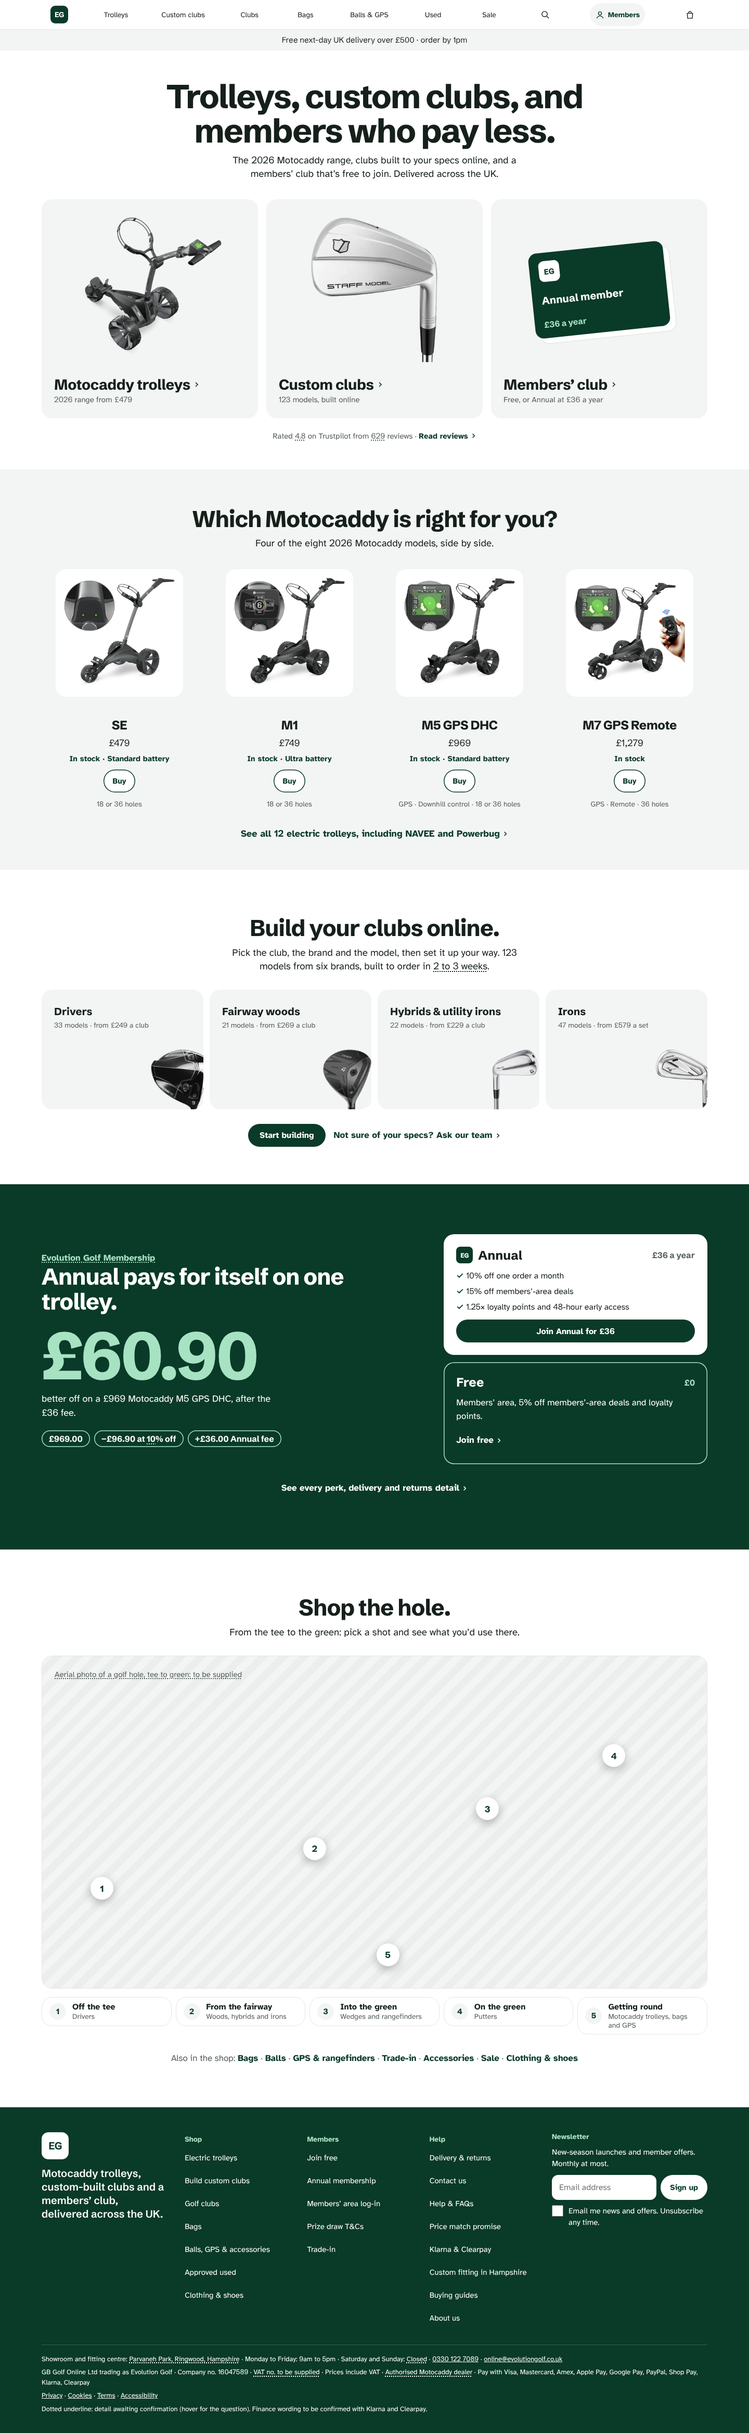
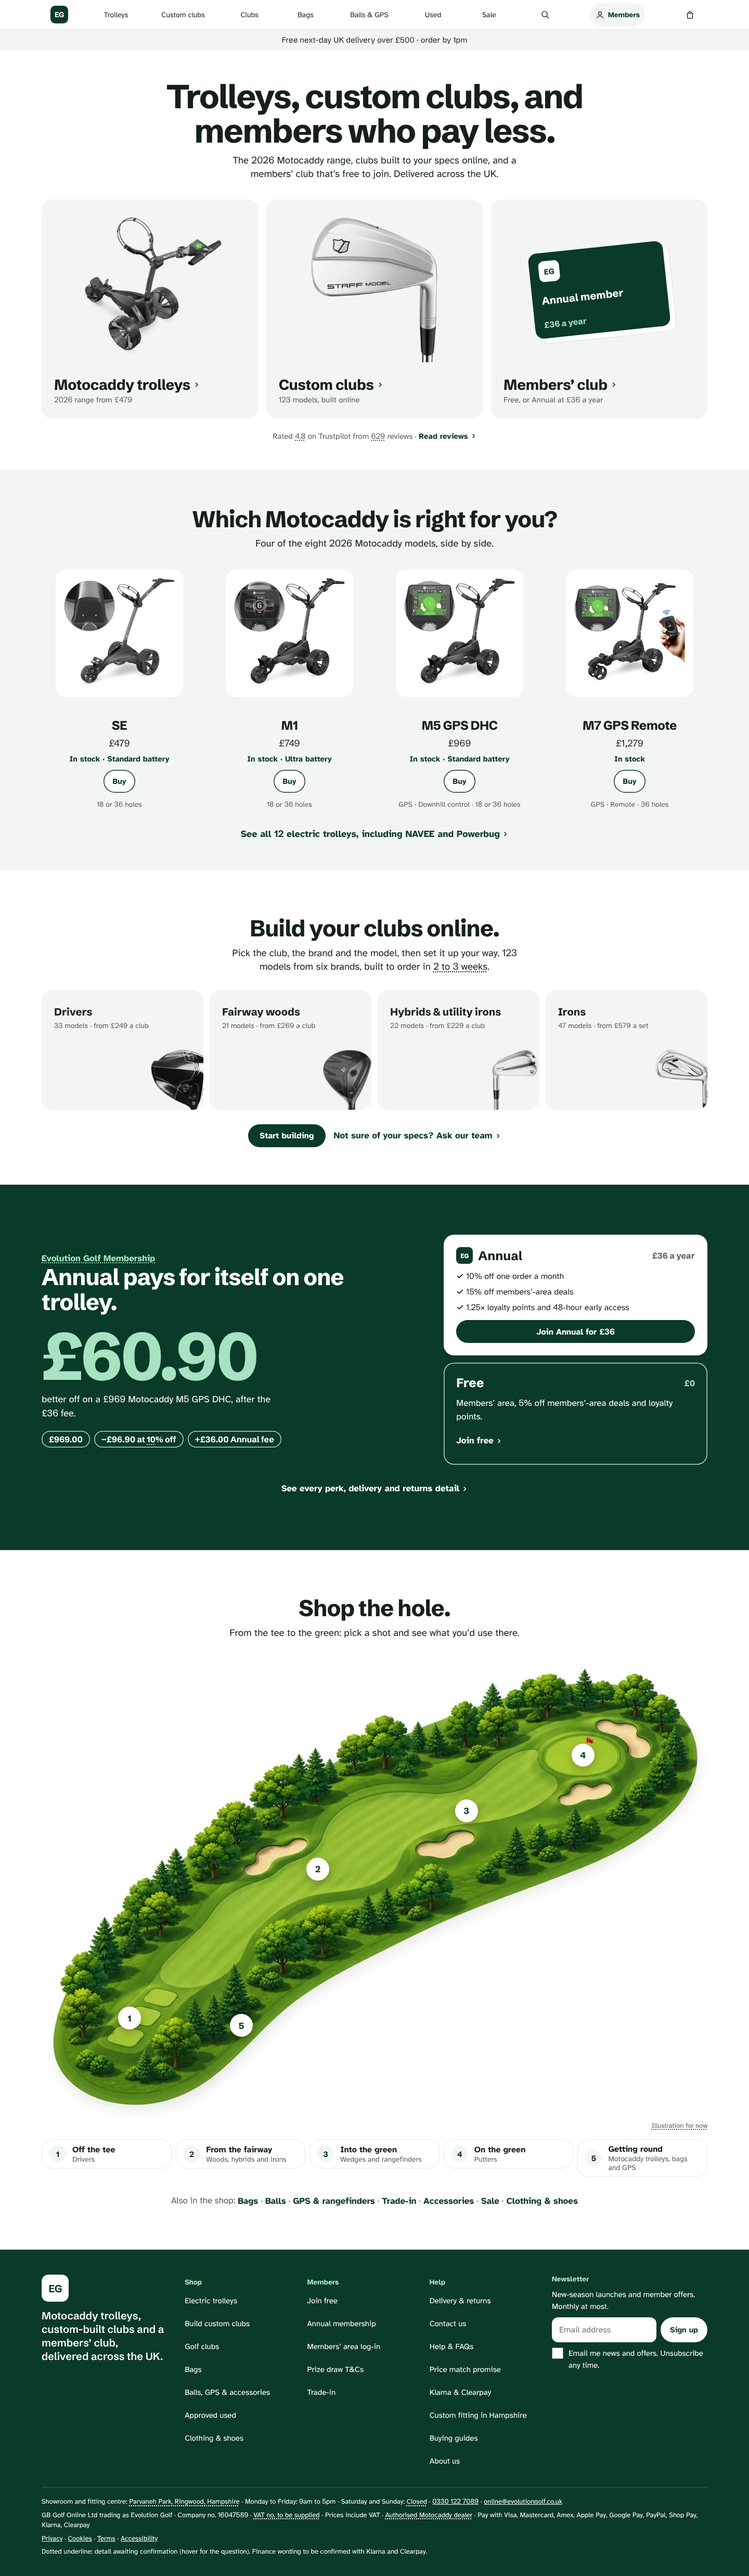
Shop the hole: owner's illustration as the placeholder image, pins placed on it
- assets/img/scenes/hole-illustration-{800,1600}.webp (trimmed, responsive srcset)
- pins on tee, fairway, approach, green and the rough; small pins shown on phones too
- 'Illustration for now' note (dotted) until a licensed aerial photo replaces it

Claude-Session: https://claude.ai/code/session_01FmqF5bQkMPdwjJJ5PpCtXL

diff --git a/mockups/dist/concepts/showroomplus2.html b/mockups/dist/concepts/showroomplus2.html
@@ -108,9 +108,10 @@
   <div class="p-copy"><h2 id="h-t">Shop the hole.</h2>
     <p class="p-sub">From the tee to the green: pick a shot and see what you’d use there.</p></div>
   <div class="h-course h-course--photo">
-    <div class="h-photo h-photo--todo" role="img" aria-label="Photo to come: aerial view of a golf hole"><span class="q" title="To be confirmed: Owner to supply a licensed aerial photo (see docs/briefs/shop-the-hole-photo.md). Pin positions in ZONES may need nudging to match it.">Aerial photo of a golf hole, tee to green: to be supplied</span></div>
-    <span class="h-pin" style="left:9%;top:70%" aria-hidden="true">1</span><span class="h-pin" style="left:41%;top:58%" aria-hidden="true">2</span><span class="h-pin" style="left:67%;top:46%" aria-hidden="true">3</span><span class="h-pin" style="left:86%;top:30%" aria-hidden="true">4</span><span class="h-pin" style="left:52%;top:90%" aria-hidden="true">5</span>
+    <img class="h-photo" src="assets/img/scenes/hole-illustration-1600.webp" srcset="assets/img/scenes/hole-illustration-800.webp 800w, assets/img/scenes/hole-illustration-1600.webp 1600w" sizes="(min-width: 1360px) 1280px, 94vw" alt="Illustration of a golf hole from the tee to the green" width="1600" height="1109" loading="lazy">
+    <span class="h-pin" style="left:13.2%;top:78.4%" aria-hidden="true">1</span><span class="h-pin" style="left:41.5%;top:46.1%" aria-hidden="true">2</span><span class="h-pin" style="left:63.8%;top:33.5%" aria-hidden="true">3</span><span class="h-pin" style="left:81.3%;top:21.4%" aria-hidden="true">4</span><span class="h-pin" style="left:30%;top:80%" aria-hidden="true">5</span>
   </div>
+  <p class="h-cap"><span class="q" title="To be confirmed: Owner-supplied illustration used as a placeholder; swap for a licensed aerial photo (docs/briefs/shop-the-hole-photo.md) and re-place the pins.">Illustration for now</span></p>
   <ul class="h-stops" aria-label="Shop by shot">
     <li><a href="#"><b aria-hidden="true">1</b><span>Off the tee<small>Drivers</small></span></a></li><li><a href="#"><b aria-hidden="true">2</b><span>From the fairway<small>Woods, hybrids and irons</small></span></a></li><li><a href="#"><b aria-hidden="true">3</b><span>Into the green<small>Wedges and rangefinders</small></span></a></li><li><a href="#"><b aria-hidden="true">4</b><span>On the green<small>Putters</small></span></a></li><li><a href="#"><b aria-hidden="true">5</b><span>Getting round<small>Motocaddy trolleys, bags and GPS</small></span></a></li>
   </ul>

diff --git a/mockups/dist/concepts/assets/css/concepts/v2pages.css b/mockups/dist/concepts/assets/css/concepts/v2pages.css
@@ -495,6 +495,12 @@ main:not(.v) { gap: 0; padding: 0; }
 /* original darker brand green (#0a3a28): hover lifts to a lighter green so it stays visible */
 .p-btn:hover { background: #146142; }
 .p-btn--ghost:hover { background: var(--mist); color: var(--green); }
+/* shop the hole: the owner's illustration (placeholder for a photo), shown whole on white */
+.h-course--photo { aspect-ratio: 1600 / 1109; background: #fff; border: 0; }
+.h-course--photo .h-photo { object-fit: contain; }
+.h-cap { max-width: var(--wrap); margin: 6px auto 0; text-align: right; font-size: 13px; color: var(--slate); }
+@media (max-width: 899px) { .h-course--photo { aspect-ratio: 1600 / 1109; } }
+@media (max-width: 899px) { .h-course--photo .h-pin { display: grid; width: 26px; height: 26px; font-size: 13px; } }
 
 /* ===== v2 page templates: collection + product (appended to showroomplus2.css) ===== */
 .v { display: block; padding: 0 var(--g); max-width: 1440px; margin: 0 auto; }

diff --git a/mockups/assets/css/concepts/showroomplus2.css b/mockups/assets/css/concepts/showroomplus2.css
@@ -495,3 +495,9 @@ main:not(.v) { gap: 0; padding: 0; }
 /* original darker brand green (#0a3a28): hover lifts to a lighter green so it stays visible */
 .p-btn:hover { background: #146142; }
 .p-btn--ghost:hover { background: var(--mist); color: var(--green); }
+/* shop the hole: the owner's illustration (placeholder for a photo), shown whole on white */
+.h-course--photo { aspect-ratio: 1600 / 1109; background: #fff; border: 0; }
+.h-course--photo .h-photo { object-fit: contain; }
+.h-cap { max-width: var(--wrap); margin: 6px auto 0; text-align: right; font-size: 13px; color: var(--slate); }
+@media (max-width: 899px) { .h-course--photo { aspect-ratio: 1600 / 1109; } }
+@media (max-width: 899px) { .h-course--photo .h-pin { display: grid; width: 26px; height: 26px; font-size: 13px; } }

diff --git a/mockups/dist/concepts/assets/css/concepts/showroomplus2.css b/mockups/dist/concepts/assets/css/concepts/showroomplus2.css
@@ -495,3 +495,9 @@ main:not(.v) { gap: 0; padding: 0; }
 /* original darker brand green (#0a3a28): hover lifts to a lighter green so it stays visible */
 .p-btn:hover { background: #146142; }
 .p-btn--ghost:hover { background: var(--mist); color: var(--green); }
+/* shop the hole: the owner's illustration (placeholder for a photo), shown whole on white */
+.h-course--photo { aspect-ratio: 1600 / 1109; background: #fff; border: 0; }
+.h-course--photo .h-photo { object-fit: contain; }
+.h-cap { max-width: var(--wrap); margin: 6px auto 0; text-align: right; font-size: 13px; color: var(--slate); }
+@media (max-width: 899px) { .h-course--photo { aspect-ratio: 1600 / 1109; } }
+@media (max-width: 899px) { .h-course--photo .h-pin { display: grid; width: 26px; height: 26px; font-size: 13px; } }
